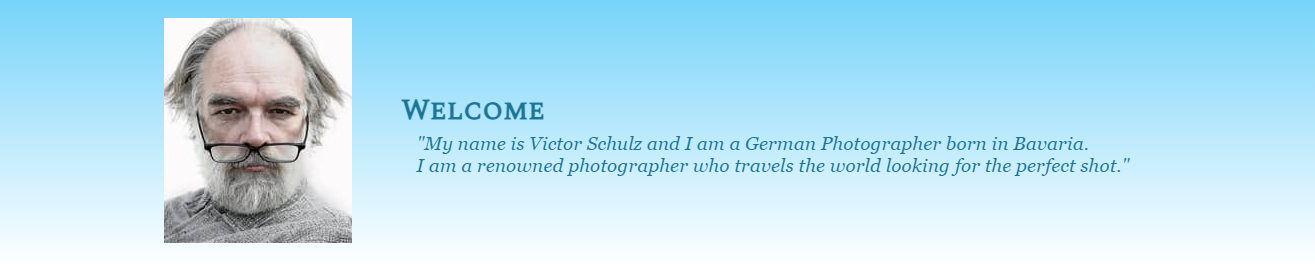
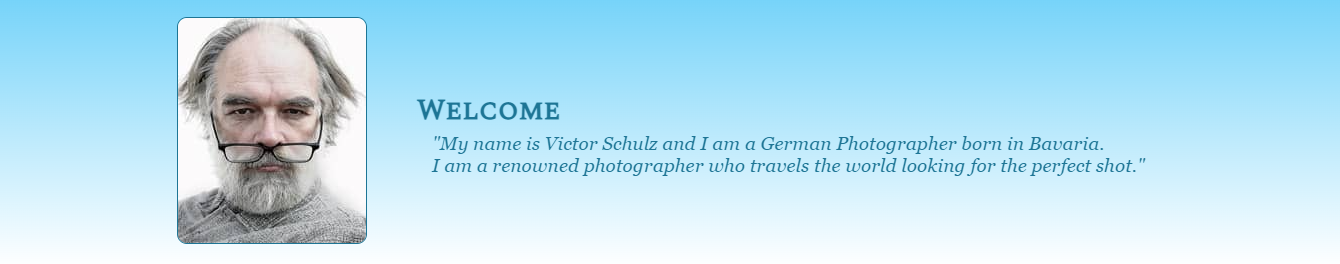
Add border to profile image and round coerns, update feature image

Changed region(s): [[0.1247, 0.0606, 0.4365, 0.9394], [0.3118, 0.5152, 0.873, 0.6667]]

diff --git a/about.html b/about.html
@@ -43,7 +43,7 @@
     <!-- start of main page content-->
     <div class="flexbox-container">
         <div class="flexbox-item flexbox-item1">
-            <img src="assets/images/profile2.jpg" alt="a picture of photographer victor schulz">
+            <img id="profile-image" src="assets/images/profile2.jpg" alt="a picture of photographer victor schulz">
         </div>
         <div class="flexbox-item flexbox-item2">
             <h2>Through the lens</h2>

diff --git a/contact.html b/contact.html
@@ -44,7 +44,7 @@
     <!-- start of main page content-->
     <div class="flexbox-container">
         <div class="flexbox-item flexbox-item1">
-            <img src="assets/images/profile2.jpg" alt="a picture of photographer victor schulz">
+            <img id="profile-image" src="assets/images/profile2.jpg" alt="a picture of photographer victor schulz">
         </div>
         <div class="flexbox-item flexbox-item2">
             <h2>Get in touch</h2>

diff --git a/index.html b/index.html
@@ -45,7 +45,7 @@
     <section>
         <div class="flexbox-container">
             <div class="flexbox-item flexbox-item1">
-                <img src="assets/images/profile2.jpg" alt="a picture of photographer victor schulz">
+                <img id="profile-image" src="assets/images/profile2.jpg" alt="a picture of photographer victor schulz">
             </div>
             <div class="flexbox-item flexbox-item2">
                 <h2>Welcome</h2>

diff --git a/gallery.html b/gallery.html
@@ -44,7 +44,7 @@
     <!-- start of main page content-->
     <div class="flexbox-container">
         <div class="flexbox-item flexbox-item1">
-            <img src="assets/images/profile2.jpg" alt="a picture of photographer victor schulz">
+            <img id="profile-image" src="assets/images/profile2.jpg" alt="a picture of photographer victor schulz">
         </div>
 
         <div class="flexbox-item flexbox-item2">

diff --git a/assets/css/style.css b/assets/css/style.css
@@ -103,6 +103,10 @@ ul {
     background-image: linear-gradient(#75d3f9, white);
 }
 
+#profile-image {
+    border: 1px solid #1d7595;
+    border-radius: 10px;
+}
 #bg-video1 {
     width: 100vw;
     height: 100vh;
